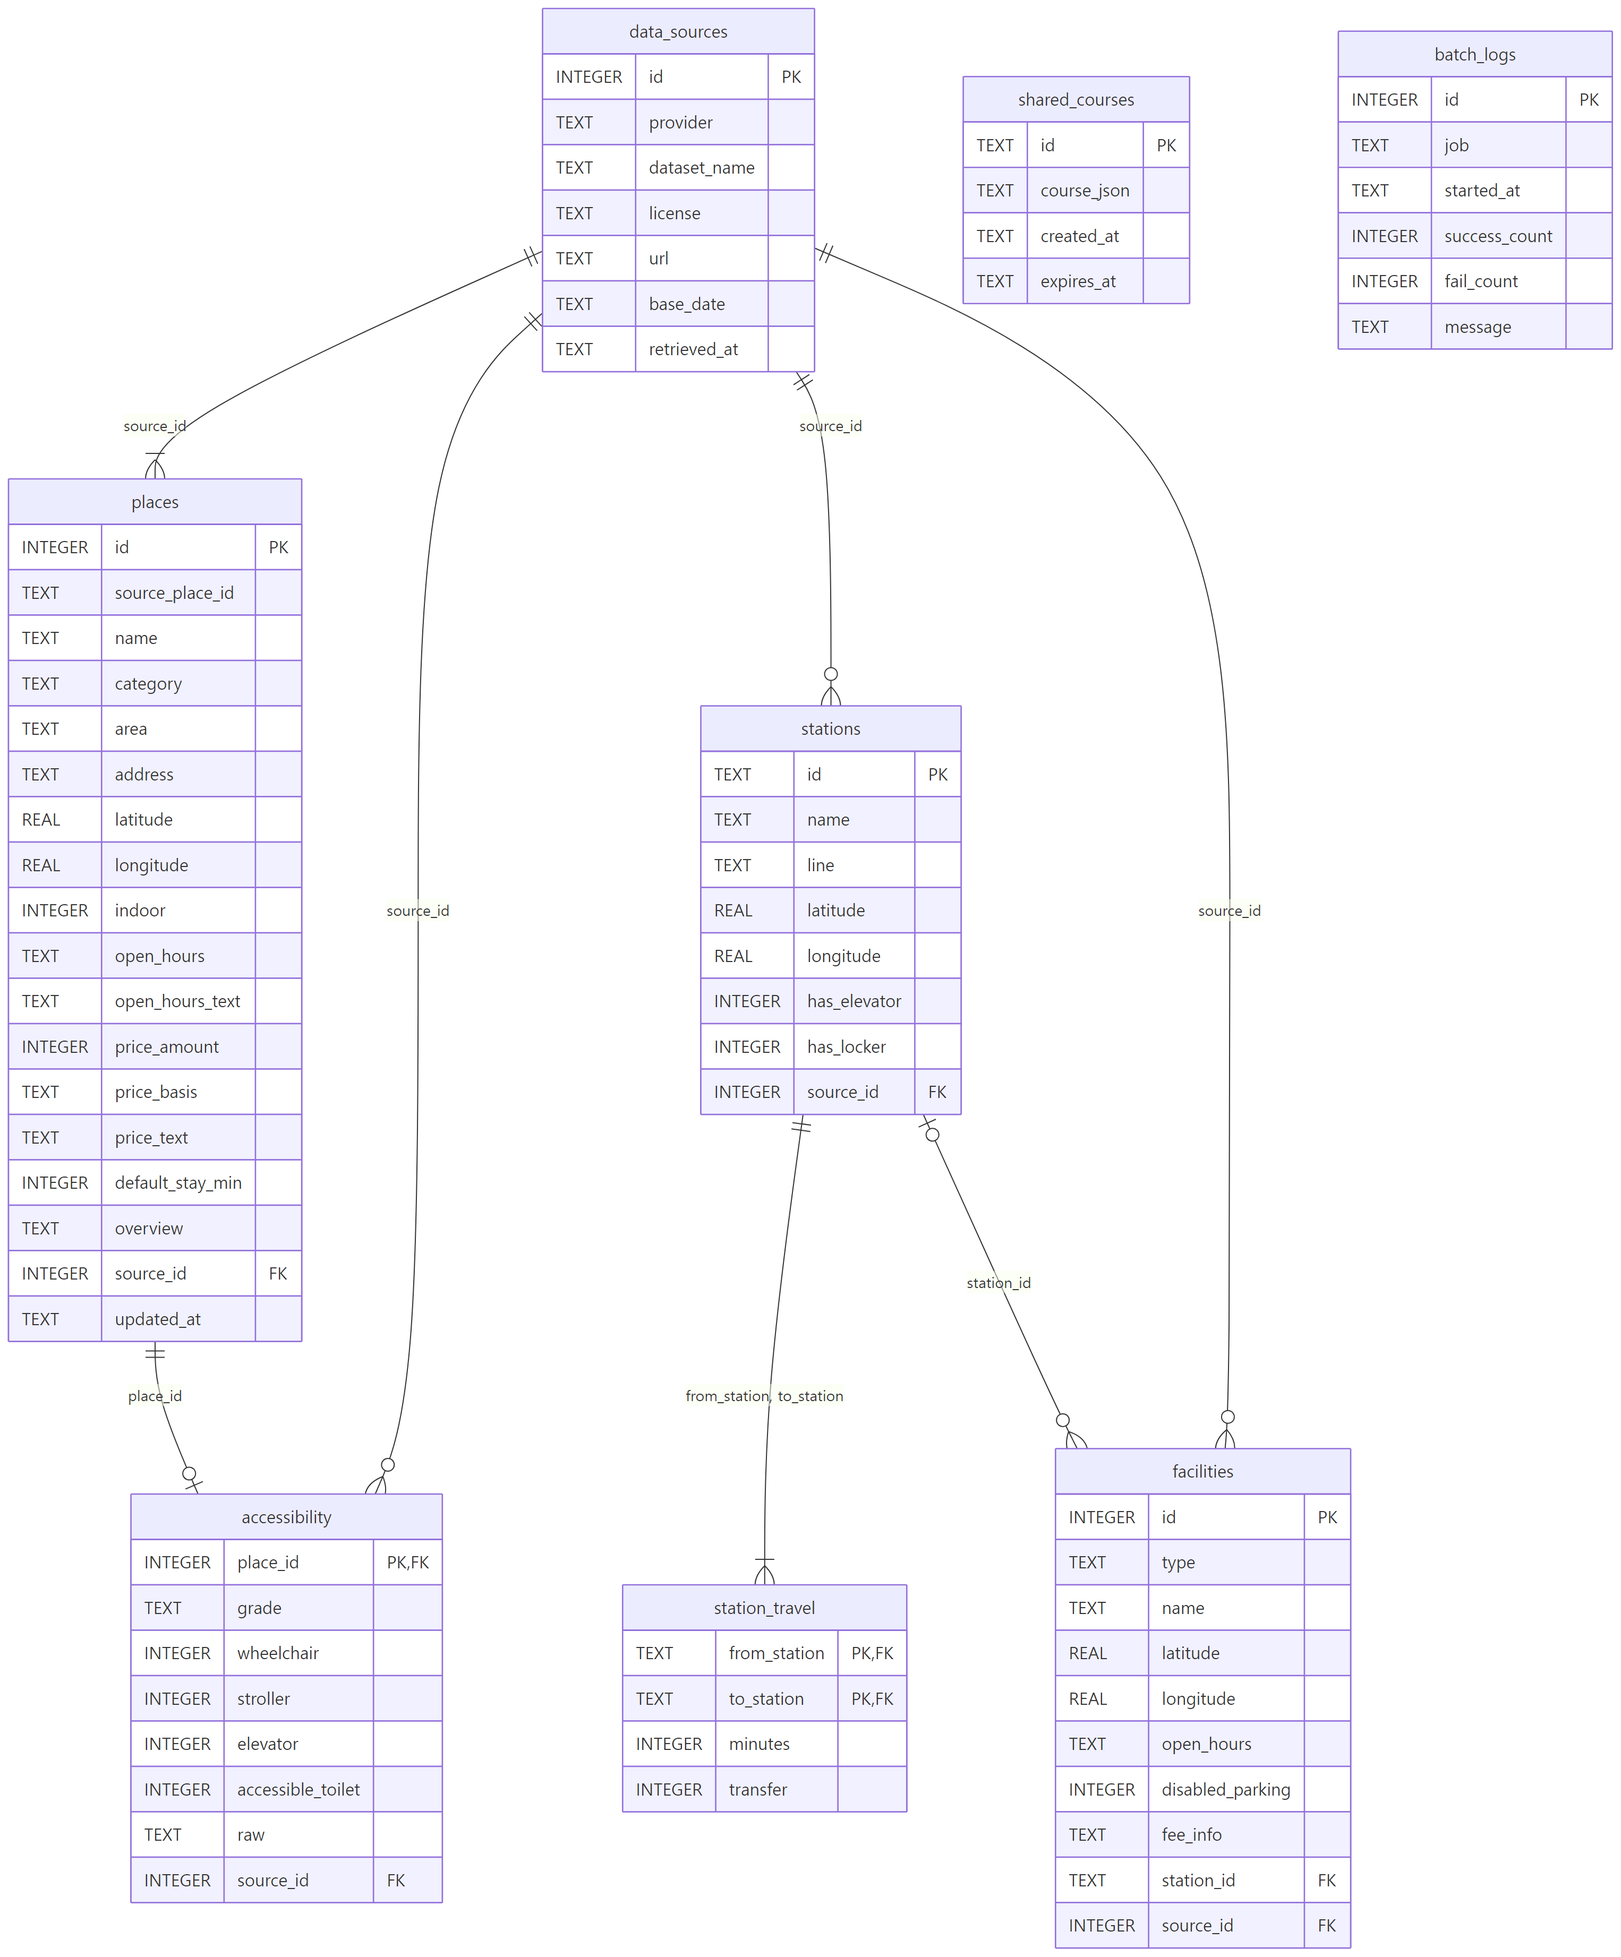
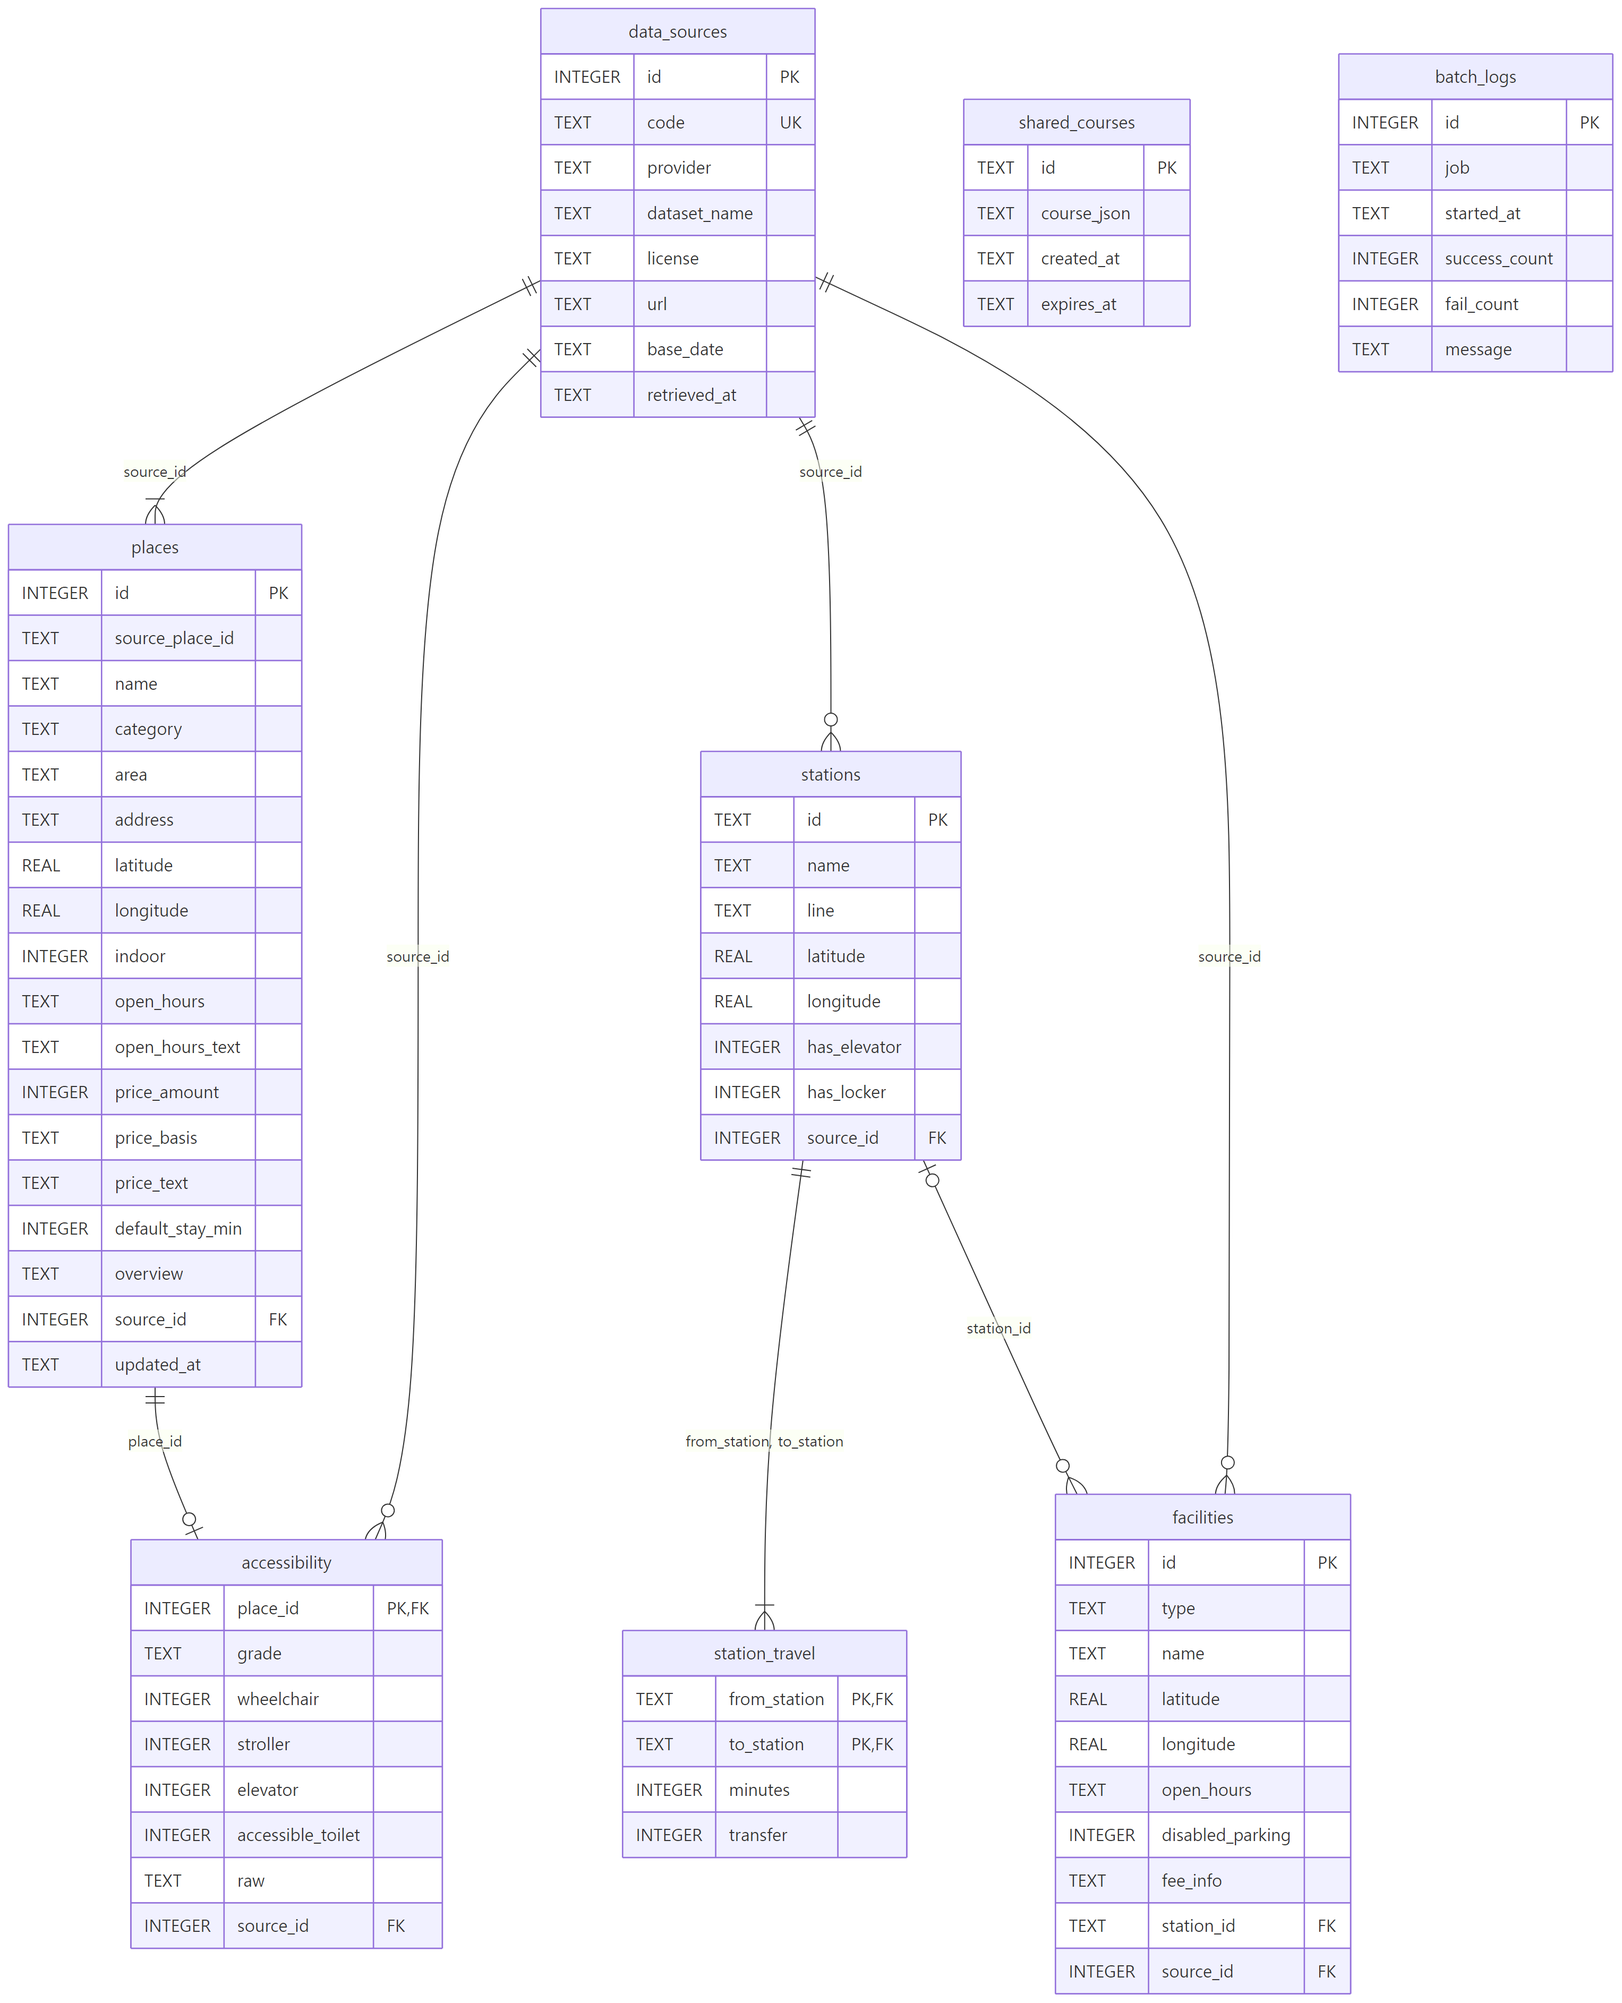
feat: FR-007 DEC-017 data_sources.code 추가와 장소 ID {code}:{source_place_id} 형식
- schema.sql: data_sources.code TEXT NOT NULL UNIQUE, CHECK 소문자·숫자·하이픈만(구분자 ':' 배제).
  places.source_place_id에 빈 문자열·'/' 금지 CHECK(URL 경로 /api/places/{placeId} 보호)
- app/data/place_id.py: make_place_id·parse_place_id (구분자 ':', 첫 ':'에서 분리)
- SDD 5.2: data_sources.code 행 추가, places.id·source_place_id 설명에 ID 형식 반영
- 그림 5-1: data_sources.code UK 추가, PNG 재생성
- 테스트: code UNIQUE·NOT NULL·문자 제한, 재적재(순서 변경) 후 같은 place.id, ID 분리 왕복

diff --git a/backend/tests/test_schema.py b/backend/tests/test_schema.py
@@ -3,12 +3,13 @@ import sqlite3
 
 import pytest
 
-from app.data import db
+from app.data import db, place_id
 
 # (column, type, NOT NULL, PK position) — SDD 5.2 table (DEC-014, DEC-017, DEC-018)
 EXPECTED = {
     "data_sources": [
-        ("id", "INTEGER", 0, 1), ("provider", "TEXT", 1, 0), ("dataset_name", "TEXT", 1, 0),
+        ("id", "INTEGER", 0, 1), ("code", "TEXT", 1, 0),
+        ("provider", "TEXT", 1, 0), ("dataset_name", "TEXT", 1, 0),
         ("license", "TEXT", 0, 0), ("url", "TEXT", 1, 0), ("base_date", "TEXT", 0, 0),
         ("retrieved_at", "TEXT", 1, 0),
     ],
@@ -78,10 +79,13 @@ def conn(tmp_path):
     connection.close()
 
 
-def add_source(conn):
+def add_source(conn, code=None):
+    if code is None:
+        code = f"mock-src-{conn.execute('SELECT count(*) FROM data_sources').fetchone()[0] + 1}"
     return conn.execute(
-        "INSERT INTO data_sources (provider, dataset_name, url, retrieved_at) VALUES (?, ?, ?, ?)",
-        ("[가상] 기관", "[가상] 데이터", "https://example.invalid/busanfit", NOW)).lastrowid
+        "INSERT INTO data_sources (code, provider, dataset_name, url, retrieved_at) "
+        "VALUES (?, ?, ?, ?, ?)",
+        (code, "[가상] 기관", "[가상] 데이터", "https://example.invalid/busanfit", NOW)).lastrowid
 
 
 def add_place(conn, source_id=None, **overrides):
@@ -161,6 +165,7 @@ def test_price_fields_stored(conn, basis):
     {"latitude": None}, {"source_id": 999},
     {"default_stay_min": 1.5}, {"default_stay_min": "unknown"},
     {"price_amount": 1.5}, {"price_amount": "unknown"},
+    {"source_place_id": ""}, {"source_place_id": "mock/1"},
 ])
 def test_invalid_place_rejected(conn, overrides):
     values = {"source_id": add_source(conn), **overrides}
@@ -238,17 +243,101 @@ def test_duplicate_source_place_id_rejected(conn):
     "INSERT INTO accessibility (place_id, grade, wheelchair, source_id) VALUES (:p, 'VERIFIED', 2, :s)",
     "INSERT INTO accessibility (place_id, grade, source_id) VALUES (999, 'UNKNOWN', :s)",
     "INSERT INTO accessibility (place_id, grade, source_id) VALUES (:p, 'UNKNOWN', 999)",
-    "INSERT INTO data_sources (provider, dataset_name, url) "
-    "VALUES ('[가상]', '[가상]', 'https://example.invalid')",
-    "INSERT INTO data_sources (provider, dataset_name, retrieved_at) VALUES ('[가상]', '[가상]', 'x')",
-    "INSERT INTO data_sources (provider, dataset_name, url, retrieved_at) "
-    "VALUES ('[가상]', '[가상]', NULL, 'x')",
+    "INSERT INTO data_sources (code, provider, dataset_name, url) "
+    "VALUES ('mock-x', '[가상]', '[가상]', 'https://example.invalid')",
+    "INSERT INTO data_sources (code, provider, dataset_name, retrieved_at) "
+    "VALUES ('mock-x', '[가상]', '[가상]', 'x')",
+    "INSERT INTO data_sources (code, provider, dataset_name, url, retrieved_at) "
+    "VALUES ('mock-x', '[가상]', '[가상]', NULL, 'x')",
 ])
 def test_invalid_accessibility_and_source_rejected(conn, sql):
     source_id = add_source(conn)
     params = {"p": add_place(conn, source_id), "s": source_id}
     with pytest.raises(sqlite3.IntegrityError):
         conn.execute(sql, params)
+
+
+SOURCE_SQL = "INSERT INTO data_sources (code, provider, dataset_name, url, retrieved_at) " \
+             "VALUES (?, '[가상]', '[가상]', 'https://example.invalid', 'x')"
+
+
+def test_source_code_is_unique_index(conn):
+    unique_columns = [
+        [col["name"] for col in conn.execute(f"PRAGMA index_info('{idx['name']}')")]
+        for idx in conn.execute("PRAGMA index_list(data_sources)") if idx["unique"]]
+    assert ["code"] in unique_columns
+
+
+def test_source_code_unique(conn):
+    conn.execute(SOURCE_SQL, ("tourapi-kor",))
+    with pytest.raises(sqlite3.IntegrityError, match="UNIQUE"):
+        conn.execute(SOURCE_SQL, ("tourapi-kor",))
+    conn.execute(SOURCE_SQL, ("tourapi-barrierfree",))
+
+
+def test_source_code_not_null(conn):
+    with pytest.raises(sqlite3.IntegrityError, match="NOT NULL"):
+        conn.execute(SOURCE_SQL, (None,))
+    with pytest.raises(sqlite3.IntegrityError, match="NOT NULL"):
+        conn.execute("INSERT INTO data_sources (provider, dataset_name, url, retrieved_at) "
+                     "VALUES ('[가상]', '[가상]', 'https://example.invalid', 'x')")
+
+
+@pytest.mark.parametrize("code", ["", "tourapi:kor", "TourAPI-kor", "tourapi kor", "tourapi/kor",
+                                  "tourapi_kor", "투어"])
+def test_source_code_rejects_unsafe_characters(conn, code):
+    with pytest.raises(sqlite3.IntegrityError, match="CHECK"):
+        conn.execute(SOURCE_SQL, (code,))
+    with pytest.raises(ValueError):
+        place_id.validate_source_code(code)
+
+
+@pytest.mark.parametrize("code", ["tourapi-kor", "tourapi-barrierfree", "busan-2026"])
+def test_source_code_rule_matches_python(conn, code):
+    conn.execute(SOURCE_SQL, (code,))
+    assert place_id.validate_source_code(code) == code
+
+
+# [가상] 두 출처·세 장소. 적재 순서를 바꿔 DB 내부 정수 ID가 달라져도 API place.id는 같아야 한다.
+RELOAD_SOURCES = ["tourapi-kor", "tourapi-barrierfree"]
+RELOAD_PLACES = [("tourapi-kor", "900001", "[가상] 카페"), ("tourapi-kor", "900002", "[가상] 공원"),
+                 ("tourapi-barrierfree", "900001", "[가상] 전시")]
+
+
+def load_and_read_ids(path, sources, places):
+    connection = db.connect(db.create_database(path))
+    try:
+        source_ids = {code: add_source(connection, code) for code in sources}
+        for code, original_id, name in places:
+            add_place(connection, source_ids[code], source_place_id=original_id, name=name)
+        rows = connection.execute(
+            "SELECT p.id, p.name, s.code, p.source_place_id FROM places p "
+            "JOIN data_sources s ON s.id = p.source_id").fetchall()
+    finally:
+        connection.close()
+    return ({row["name"]: place_id.make_place_id(row["code"], row["source_place_id"])
+             for row in rows}, {row["name"]: row["id"] for row in rows})
+
+
+def test_place_id_stable_across_reload(tmp_path):
+    first, first_internal = load_and_read_ids(tmp_path / "a.sqlite3", RELOAD_SOURCES,
+                                              RELOAD_PLACES)
+    # 다시 적재: 출처·장소 순서를 뒤집고, 앞에 다른 장소를 하나 더 넣어 내부 ID를 밀어낸다.
+    extra = [("tourapi-kor", "900999", "[가상] 추가")]
+    second, second_internal = load_and_read_ids(
+        tmp_path / "b.sqlite3", RELOAD_SOURCES[::-1], extra + RELOAD_PLACES[::-1])
+    assert any(first_internal[name] != second_internal[name] for name in first_internal)
+    assert first == {name: second[name] for name in first}
+    assert first == {"[가상] 카페": "tourapi-kor:900001", "[가상] 공원": "tourapi-kor:900002",
+                     "[가상] 전시": "tourapi-barrierfree:900001"}
+
+
+def test_place_id_round_trip():
+    assert place_id.parse_place_id("tourapi-kor:900001") == ("tourapi-kor", "900001")
+    assert place_id.parse_place_id("tourapi-kor:a:b") == ("tourapi-kor", "a:b")
+    for bad in ["", "tourapi-kor", ":900001", "tourapi-kor:", "Tour:1", "tourapi-kor:1/2", None]:
+        with pytest.raises(ValueError):
+            place_id.parse_place_id(bad)
 
 
 def test_db_path_comes_from_environment(tmp_path):

diff --git a/backend/app/data/place_id.py b/backend/app/data/place_id.py
@@ -1,0 +1,41 @@
+"""API place.id format (DEC-017): ``"{data_sources.code}:{places.source_place_id}"``.
+
+DEC-017 left the format to the data owner. The DB integer ``places.id`` changes when the DB file
+is rebuilt, so the API ID is built from values that survive a reload: the fixed source code the
+loader writes (e.g. ``tourapi-kor``, ``tourapi-barrierfree``) and the original place ID.
+
+The code allows only ``[a-z0-9-]`` (same rule as the CHECK in schema.sql), so it never contains
+the separator and the first ``:`` always splits the ID. ``:`` is allowed as-is in a URL path
+segment (RFC 3986 pchar), so ``/api/places/tourapi-kor:12345`` needs no escaping. ``/`` is not
+allowed in the original ID because it would split the path.
+"""
+import re
+
+SEPARATOR = ":"
+SOURCE_CODE_PATTERN = re.compile(r"[a-z0-9-]+")
+
+
+def validate_source_code(code: str) -> str:
+    if not isinstance(code, str) or not SOURCE_CODE_PATTERN.fullmatch(code):
+        raise ValueError(f"source code must match [a-z0-9-]+: {code!r}")
+    return code
+
+
+def validate_source_place_id(source_place_id: str) -> str:
+    if not isinstance(source_place_id, str) or not source_place_id or "/" in source_place_id:
+        raise ValueError(f"source_place_id must be a non-empty string without '/': "
+                         f"{source_place_id!r}")
+    return source_place_id
+
+
+def make_place_id(source_code: str, source_place_id: str) -> str:
+    return (f"{validate_source_code(source_code)}{SEPARATOR}"
+            f"{validate_source_place_id(source_place_id)}")
+
+
+def parse_place_id(place_id: str) -> tuple[str, str]:
+    """Split an API place.id into (source code, source_place_id). Raises ValueError if malformed."""
+    if not isinstance(place_id, str) or SEPARATOR not in place_id:
+        raise ValueError(f"malformed place id: {place_id!r}")
+    code, source_place_id = place_id.split(SEPARATOR, 1)
+    return validate_source_code(code), validate_source_place_id(source_place_id)

diff --git a/docs/sdd.md b/docs/sdd.md
@@ -153,12 +153,13 @@ Software Design Document (SDD)
 | **테이블/컬렉션** | **필드** | **타입** | **PK/FK** | **Null** | **설명** | **관련 요구사항** |
 |----|----|----|----|----|----|----|
 | data_sources | id | INTEGER | PK | N | 출처 식별자 | NFR-009 |
+| data_sources | code | TEXT | UNIQUE | N | 출처 코드. 적재 스크립트가 고정 값으로 넣는다(예: 관광정보 `tourapi-kor`, 무장애 `tourapi-barrierfree`). 소문자·숫자·하이픈만 허용(CHECK)해 place.id 구분자 ':'가 들어가지 않는다. DB 파일을 새로 만들어도 같은 값이므로 API place.id의 앞부분으로 쓴다 (DEC-017) | FR-007, NFR-009 |
 | data_sources | provider / dataset_name | TEXT | \- | N | 제공기관, 데이터명 | NFR-009 |
 | data_sources | license / base_date | TEXT | \- | Y | 이용조건(공공누리 유형), 기준일(ISO 8601 날짜) | NFR-009 |
 | data_sources | url | TEXT | \- | N | 원본 URL (API Source.url, DEC-018) | NFR-009 |
 | data_sources | retrieved_at | TEXT | \- | N | 조회 시각 (ISO 8601 시각, API Source.retrievedAt). 제공기관의 기준일(base_date)과 구분 (DEC-017) | NFR-009 |
-| places | id | INTEGER | PK | N | DB 내부 장소 식별자. DB 파일을 새로 만들면 바뀔 수 있으므로 API place.id로 그대로 내보내지 않는다. API place.id는 재적재해도 같은 값이 나오도록 source_place_id 기반 문자열로 만든다 (DEC-017) | FR-007 |
-| places | source_place_id | TEXT | \- | N | 원본 데이터의 장소 ID (예: TourAPI contentid). (source_id, source_place_id) 중복 금지. 재적재 후에도 유지되는 장소 식별의 기준 (DEC-017) | FR-020, NFR-009 |
+| places | id | INTEGER | PK | N | DB 내부 장소 식별자. DB 파일을 새로 만들면 바뀔 수 있으므로 API place.id로 그대로 내보내지 않는다. API place.id는 재적재해도 같은 값이 나오도록 `{data_sources.code}:{places.source_place_id}` 문자열로 만든다(예: `tourapi-kor:126508`). 첫 ':'에서 나누면 출처 코드와 원본 ID가 된다. ':'는 URL 경로 세그먼트에 그대로 쓸 수 있어 `/api/places/{placeId}`에서 인코딩이 필요 없다(계약의 Place.id는 pattern 없는 문자열이며 클라이언트는 불투명 문자열로 취급). 형식은 DEC-017이 담당자에게 맡긴 범위에서 정함(`app.data.place_id`) (DEC-017) | FR-007 |
+| places | source_place_id | TEXT | \- | N | 원본 데이터의 장소 ID (예: TourAPI contentid). (source_id, source_place_id) 중복 금지. 빈 문자열과 URL 경로를 끊는 '/'는 허용하지 않음(CHECK). 재적재 후에도 유지되는 장소 식별의 기준 (DEC-017) | FR-020, NFR-009 |
 | places | name / category / area | TEXT | \- | N | 장소명, 카테고리(CAFE·FOOD·EXHIBITION·ATTRACTION·PARK·SHOPPING·OTHER, DEC-013. 대응: 관광→ATTRACTION, 문화→EXHIBITION, 야외→PARK, 음식→FOOD, 카페→CAFE, 체험→ATTRACTION), 권역 | FR-007 |
 | places | address | TEXT | \- | Y | 주소 | FR-012 |
 | places | latitude / longitude | REAL | \- | N | WGS84 위도·경도 (일반 인덱스 idx_places_lat_lon, 반경 검색은 위경도 사각형 1차 필터 후 하버사인 2차 필터) | FR-007, NFR-001 |

diff --git a/backend/app/data/README.md b/backend/app/data/README.md
@@ -15,5 +15,8 @@ cd backend; ../.venv/Scripts/python.exe -m app.data.db create; cd ..
 ```
 상대 경로는 명령을 실행한 폴더 기준입니다(위 예시는 `backend/data/busanfit.sqlite3`). 같은 경로에 파일이 있으면 덮어쓰지 않고 오류를 냅니다. 다시 만들려면 기존 파일을 직접 지운 뒤 실행합니다. 생성 도중 실패하면 부분 파일을 남기지 않으므로 같은 명령으로 다시 실행할 수 있습니다. 지금은 빈 스키마만 만들며, 해운대 표본 적재 명령은 이슈 #7 작업 C에서 추가합니다.
 좌표·원본 ID·중복·출처 연결·누락을 검증하고 UNKNOWN은 그대로 유지합니다.
+
+## 장소 ID (DEC-017)
+API의 place.id는 `{data_sources.code}:{places.source_place_id}`입니다(예: `tourapi-kor:126508`). DB 내부 정수 `places.id`는 DB를 새로 만들면 바뀌므로 내보내지 않습니다. `data_sources.code`는 적재 스크립트가 고정 값으로 넣으며(관광정보 `tourapi-kor`, 무장애 `tourapi-barrierfree`) 소문자·숫자·하이픈만 허용합니다. 만들기·나누기는 `place_id.py`의 `make_place_id`·`parse_place_id`를 씁니다.
 외부 수집은 pipelines, 요청 시 검색은 이 영역입니다. 초기 적재 재현은 pipelines와 함께 검수합니다.
 FR-017의 역·주차장·엘리베이터·보관함 조회도 담당합니다. FR-019 공유 저장은 Could 후속이며 세션/건강 원문 저장과 구분합니다.
